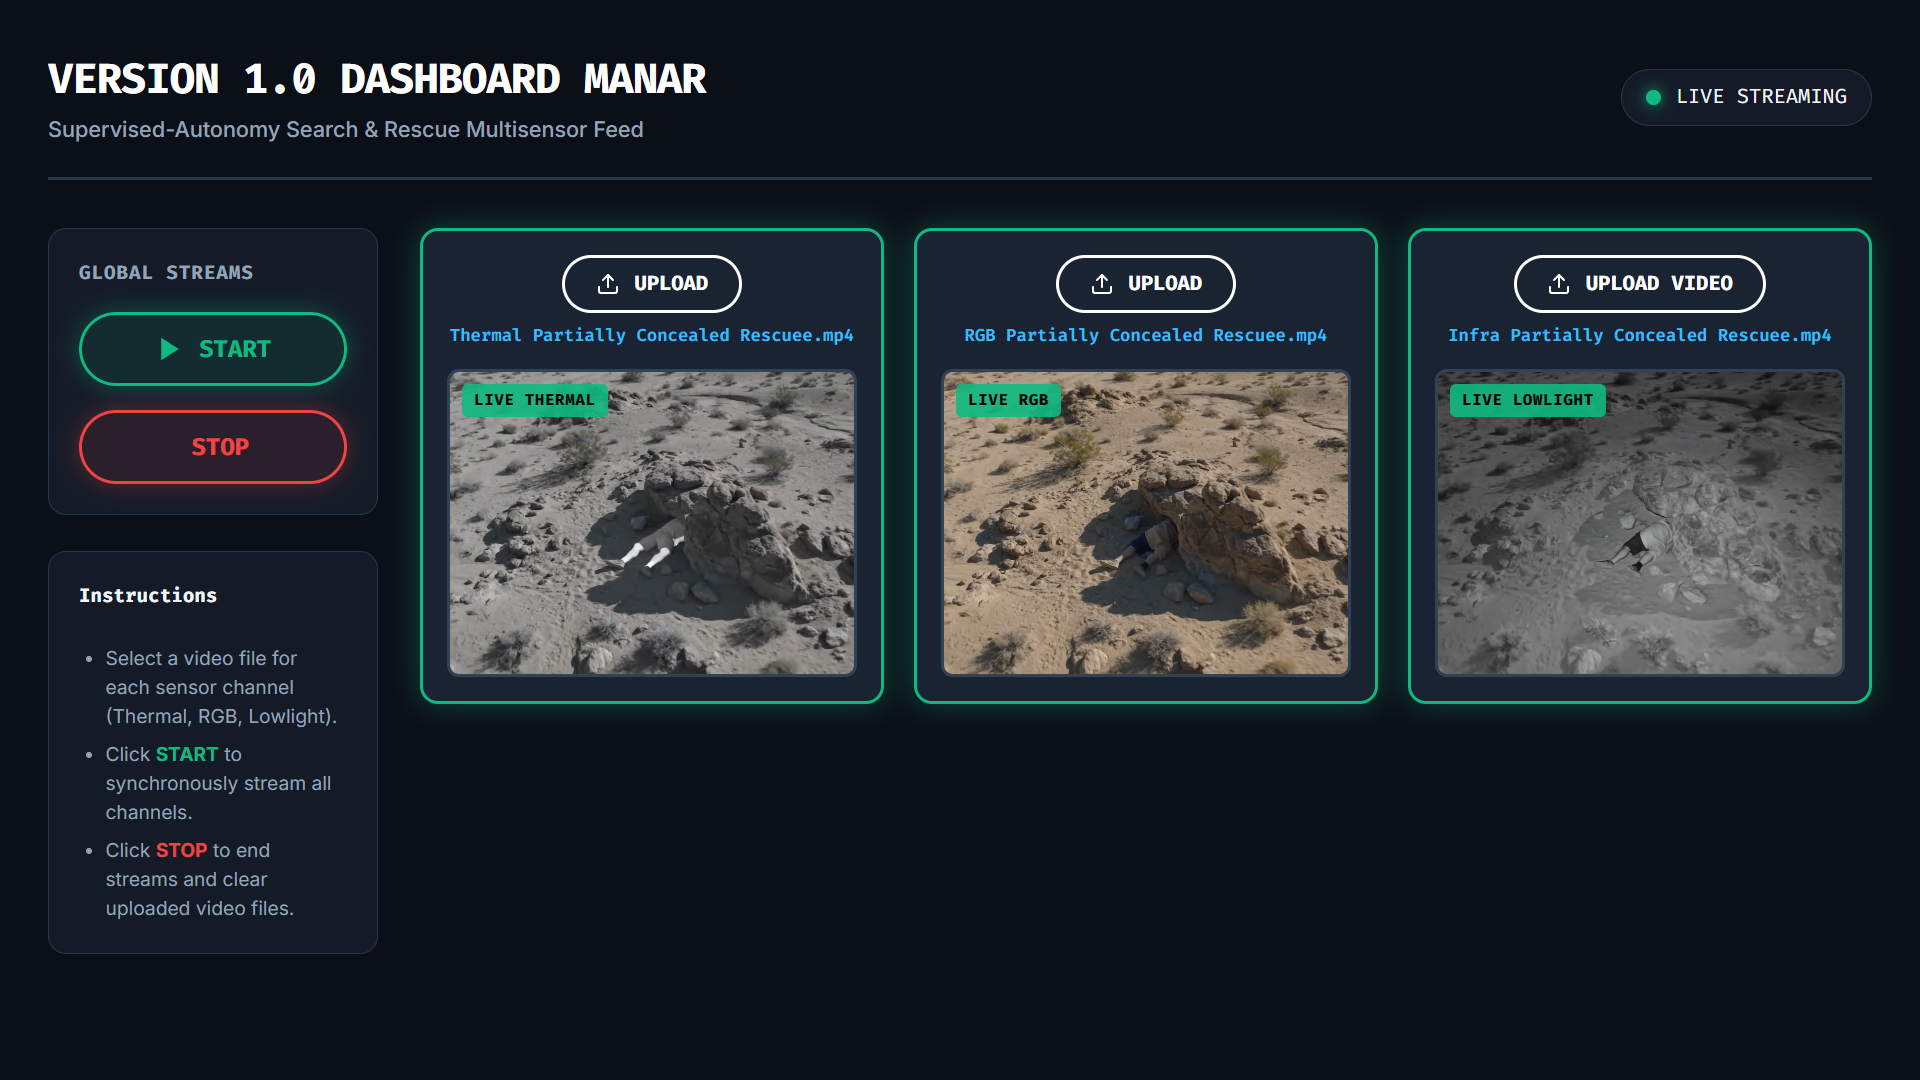
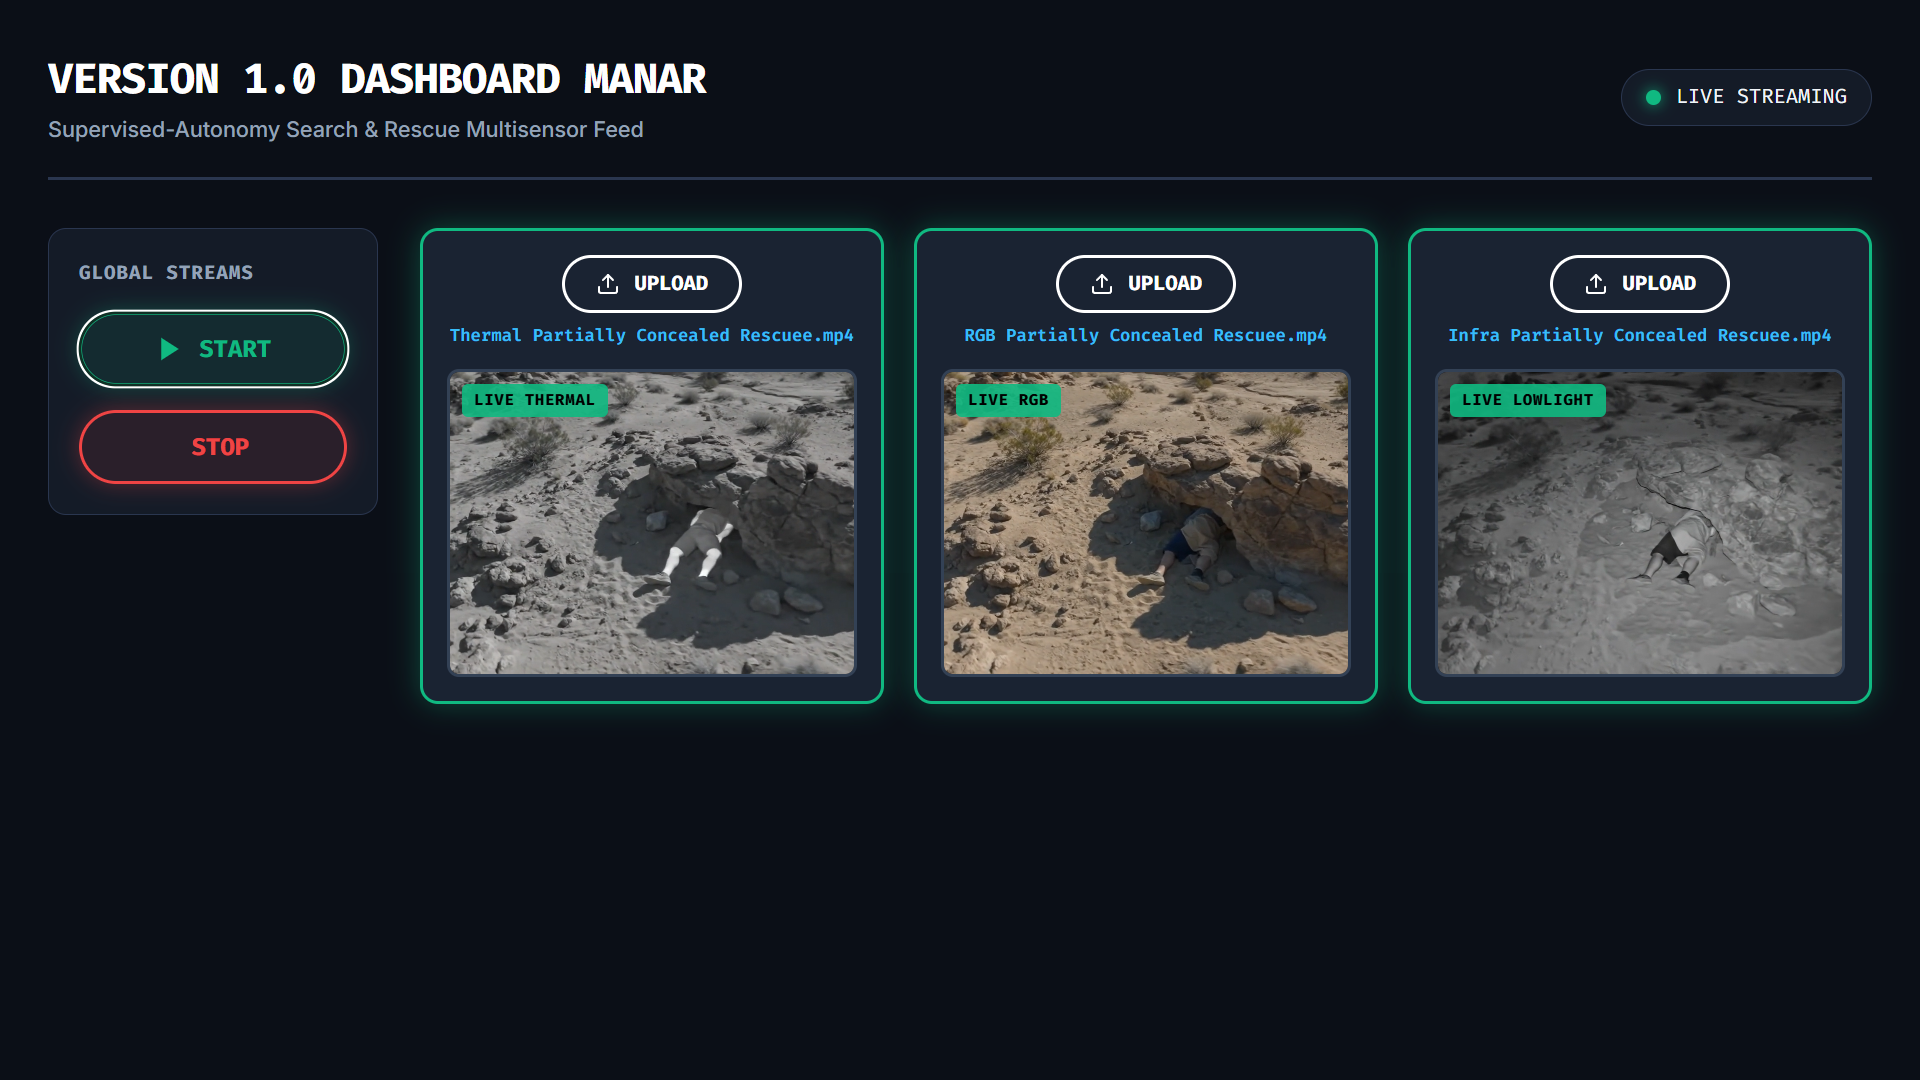
fixed unneccessary text in dashboard

diff --git a/webdashboardv1/dashboard.html b/webdashboardv1/dashboard.html
@@ -1,5 +1,6 @@
 <!DOCTYPE html>
 <html lang="en">
+
 <head>
   <meta charset="UTF-8">
   <meta name="viewport" content="width=device-width, initial-scale=1.0">
@@ -8,9 +9,12 @@
   <!-- Google Fonts for modern tech aesthetic -->
   <link rel="preconnect" href="https://fonts.googleapis.com">
   <link rel="preconnect" href="https://fonts.gstatic.com" crossorigin>
-  <link href="https://fonts.googleapis.com/css2?family=Fira+Code:wght@400;600;700&family=Inter:wght@400;500;600;700;800&display=swap" rel="stylesheet">
+  <link
+    href="https://fonts.googleapis.com/css2?family=Fira+Code:wght@400;600;700&family=Inter:wght@400;500;600;700;800&display=swap"
+    rel="stylesheet">
   <link rel="stylesheet" href="style.css">
 </head>
+
 <body>
 
   <div class="dashboard-container">
@@ -28,12 +32,12 @@
 
     <!-- Main Content Area -->
     <div class="dashboard-body">
-      
+
       <!-- Left Controls Panel -->
       <aside class="control-panel">
         <div class="panel-section">
           <h3 class="panel-title">GLOBAL STREAMS</h3>
-          
+
           <button id="btn-start" class="pill-btn btn-start" type="button">
             <svg width="20" height="20" viewBox="0 0 24 24" fill="currentColor">
               <polygon points="5 3 19 12 5 21 5 3"></polygon>
@@ -47,14 +51,7 @@
           </button>
         </div>
 
-        <div class="panel-section info-card">
-          <h4>Instructions</h4>
-          <ul>
-            <li>Select a video file for each sensor channel (Thermal, RGB, Lowlight).</li>
-            <li>Click <strong class="text-start">START</strong> to synchronously stream all channels.</li>
-            <li>Click <strong class="text-stop">STOP</strong> to end streams and clear uploaded video files.</li>
-          </ul>
-        </div>
+
       </aside>
 
       <!-- Right Video Feeds Grid -->
@@ -64,7 +61,12 @@
         <div class="feed-card" id="card-thermal">
           <div class="upload-header">
             <label for="input-thermal" class="pill-btn btn-upload">
-              <svg width="16" height="16" viewBox="0 0 24 24" fill="none" stroke="currentColor" stroke-width="2" stroke-linecap="round" stroke-linejoin="round"><path d="M21 15v4a2 2 0 0 1-2 2H5a2 2 0 0 1-2-2v-4"/><polyline points="17 8 12 3 7 8"/><line x1="12" y1="3" x2="12" y2="15"/></svg>
+              <svg width="16" height="16" viewBox="0 0 24 24" fill="none" stroke="currentColor" stroke-width="2"
+                stroke-linecap="round" stroke-linejoin="round">
+                <path d="M21 15v4a2 2 0 0 1-2 2H5a2 2 0 0 1-2-2v-4" />
+                <polyline points="17 8 12 3 7 8" />
+                <line x1="12" y1="3" x2="12" y2="15" />
+              </svg>
               <span>UPLOAD</span>
             </label>
             <input type="file" id="input-thermal" class="hidden-file-input" accept="video/*">
@@ -75,7 +77,9 @@
             <video id="video-thermal" playsinline loop muted></video>
             <div class="placeholder-overlay" id="placeholder-thermal">
               <div class="channel-badge thermal-badge">
-                <svg width="24" height="24" viewBox="0 0 24 24" fill="none" stroke="currentColor" stroke-width="2"><path d="M12 2v20M17 5H9.5a3.5 3.5 0 0 0 0 7h5a3.5 3.5 0 0 1 0 7H6"/></svg>
+                <svg width="24" height="24" viewBox="0 0 24 24" fill="none" stroke="currentColor" stroke-width="2">
+                  <path d="M12 2v20M17 5H9.5a3.5 3.5 0 0 0 0 7h5a3.5 3.5 0 0 1 0 7H6" />
+                </svg>
                 <span class="channel-label">THERMAL</span>
               </div>
               <span class="sub-text">Click Upload to assign video</span>
@@ -88,7 +92,12 @@
         <div class="feed-card" id="card-rgb">
           <div class="upload-header">
             <label for="input-rgb" class="pill-btn btn-upload">
-              <svg width="16" height="16" viewBox="0 0 24 24" fill="none" stroke="currentColor" stroke-width="2" stroke-linecap="round" stroke-linejoin="round"><path d="M21 15v4a2 2 0 0 1-2 2H5a2 2 0 0 1-2-2v-4"/><polyline points="17 8 12 3 7 8"/><line x1="12" y1="3" x2="12" y2="15"/></svg>
+              <svg width="16" height="16" viewBox="0 0 24 24" fill="none" stroke="currentColor" stroke-width="2"
+                stroke-linecap="round" stroke-linejoin="round">
+                <path d="M21 15v4a2 2 0 0 1-2 2H5a2 2 0 0 1-2-2v-4" />
+                <polyline points="17 8 12 3 7 8" />
+                <line x1="12" y1="3" x2="12" y2="15" />
+              </svg>
               <span>UPLOAD</span>
             </label>
             <input type="file" id="input-rgb" class="hidden-file-input" accept="video/*">
@@ -99,7 +108,10 @@
             <video id="video-rgb" playsinline loop muted></video>
             <div class="placeholder-overlay" id="placeholder-rgb">
               <div class="channel-badge rgb-badge">
-                <svg width="24" height="24" viewBox="0 0 24 24" fill="none" stroke="currentColor" stroke-width="2"><circle cx="12" cy="12" r="10"/><path d="M12 8v8M8 12h8"/></svg>
+                <svg width="24" height="24" viewBox="0 0 24 24" fill="none" stroke="currentColor" stroke-width="2">
+                  <circle cx="12" cy="12" r="10" />
+                  <path d="M12 8v8M8 12h8" />
+                </svg>
                 <span class="channel-label">RGB</span>
               </div>
               <span class="sub-text">Click Upload to assign video</span>
@@ -112,8 +124,13 @@
         <div class="feed-card" id="card-lowlight">
           <div class="upload-header">
             <label for="input-lowlight" class="pill-btn btn-upload">
-              <svg width="16" height="16" viewBox="0 0 24 24" fill="none" stroke="currentColor" stroke-width="2" stroke-linecap="round" stroke-linejoin="round"><path d="M21 15v4a2 2 0 0 1-2 2H5a2 2 0 0 1-2-2v-4"/><polyline points="17 8 12 3 7 8"/><line x1="12" y1="3" x2="12" y2="15"/></svg>
-              <span>UPLOAD VIDEO</span>
+              <svg width="16" height="16" viewBox="0 0 24 24" fill="none" stroke="currentColor" stroke-width="2"
+                stroke-linecap="round" stroke-linejoin="round">
+                <path d="M21 15v4a2 2 0 0 1-2 2H5a2 2 0 0 1-2-2v-4" />
+                <polyline points="17 8 12 3 7 8" />
+                <line x1="12" y1="3" x2="12" y2="15" />
+              </svg>
+              <span>UPLOAD</span>
             </label>
             <input type="file" id="input-lowlight" class="hidden-file-input" accept="video/*">
             <span class="file-name-tag" id="filename-lowlight">No file chosen</span>
@@ -123,7 +140,9 @@
             <video id="video-lowlight" playsinline loop muted></video>
             <div class="placeholder-overlay" id="placeholder-lowlight">
               <div class="channel-badge lowlight-badge">
-                <svg width="24" height="24" viewBox="0 0 24 24" fill="none" stroke="currentColor" stroke-width="2"><path d="M21 12.79A9 9 0 1 1 11.21 3 7 7 0 0 0 21 12.79z"/></svg>
+                <svg width="24" height="24" viewBox="0 0 24 24" fill="none" stroke="currentColor" stroke-width="2">
+                  <path d="M21 12.79A9 9 0 1 1 11.21 3 7 7 0 0 0 21 12.79z" />
+                </svg>
                 <span class="channel-label">LOWLIGHT</span>
               </div>
               <span class="sub-text">Click Upload to assign video</span>
@@ -138,4 +157,5 @@
 
   <script src="script.js"></script>
 </body>
+
 </html>

diff --git a/webdashboardv1/style.css b/webdashboardv1/style.css
@@ -184,27 +184,7 @@ body {
   box-shadow: 0 0 22px var(--color-stop-glow);
 }
 
-/* Info Card */
-.info-card {
-  font-size: 0.8rem;
-  color: var(--text-muted);
-}
 
-.info-card h4 {
-  color: var(--text-main);
-  margin-bottom: 0.4rem;
-  font-family: 'Fira Code', monospace;
-}
-
-.info-card ul {
-  padding-left: 1.1rem;
-  display: flex;
-  flex-direction: column;
-  gap: 0.4rem;
-}
-
-.text-start { color: var(--color-start); }
-.text-stop { color: var(--color-stop); }
 
 /* Right Feeds Grid - 3 Horizontal Columns */
 .feeds-grid {
